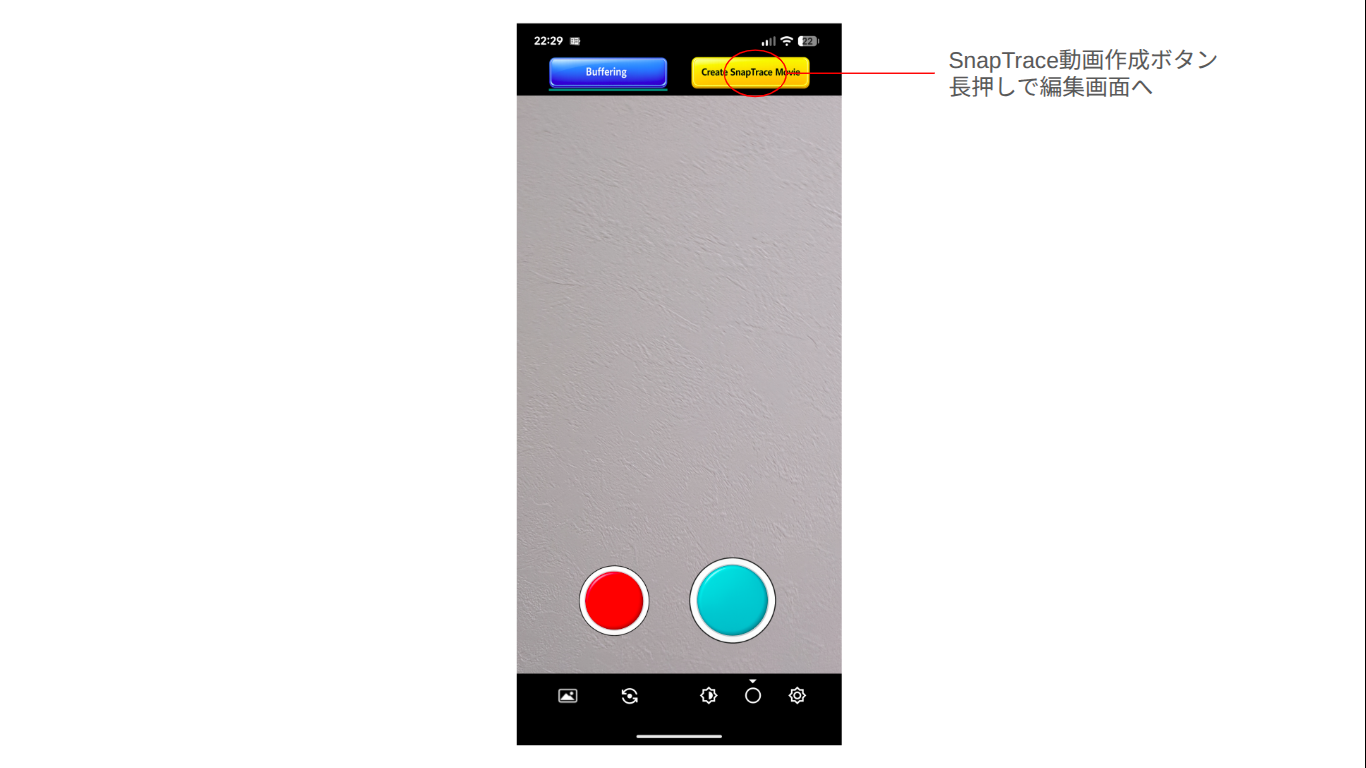
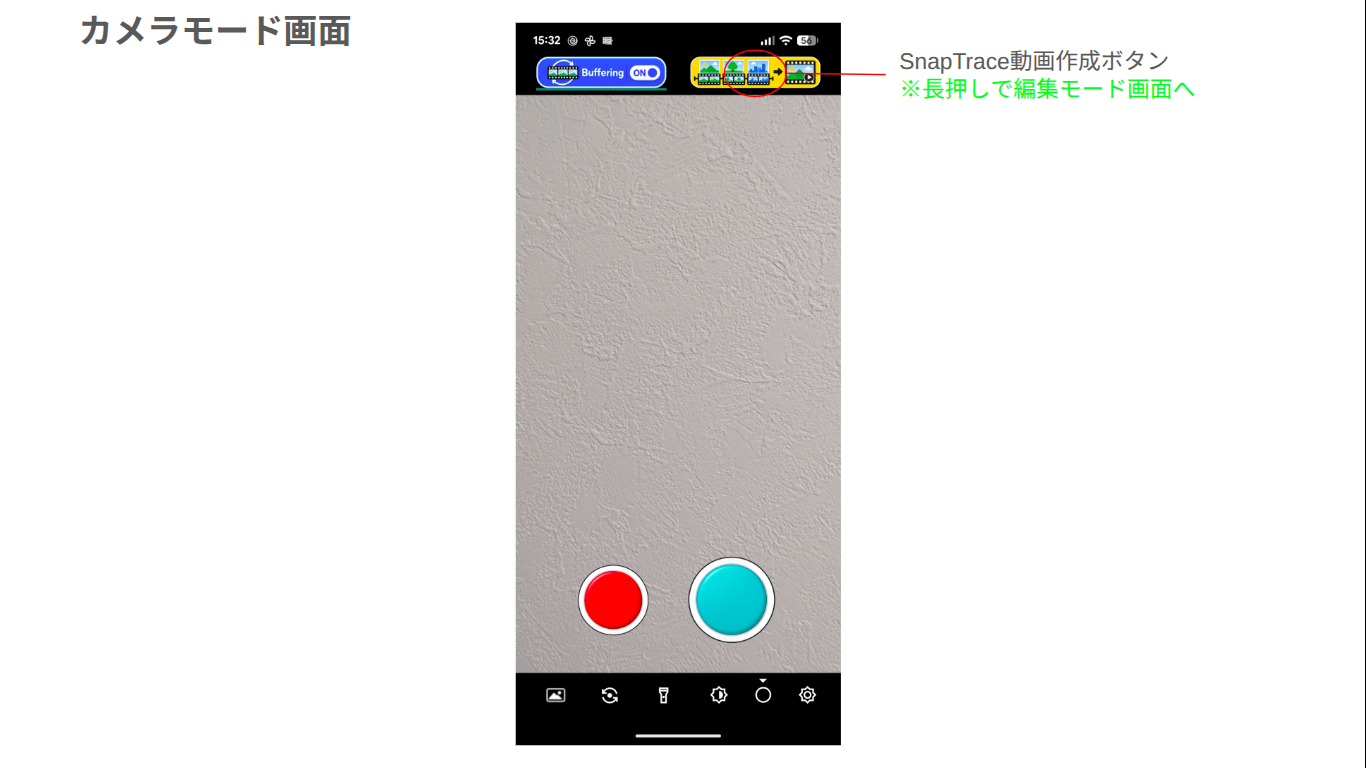
動画編集モード画面の入り方の画像変更

diff --git a/docs/editmode-features.md b/docs/editmode-features.md
@@ -1,6 +1,6 @@
 # SnapTrace動画編集モード機能仕様
 
-## SnapTrace動画編集画面の入り方
+## SnapTrace動画編集モード画面の入り方
 
 ![edit01](https://amayegak.github.io/snaptrace-site/images/Edit01.png)
 - "Create SnapTrace Movie"ボタン長押しでSnapTrace動画編集画面に入る
